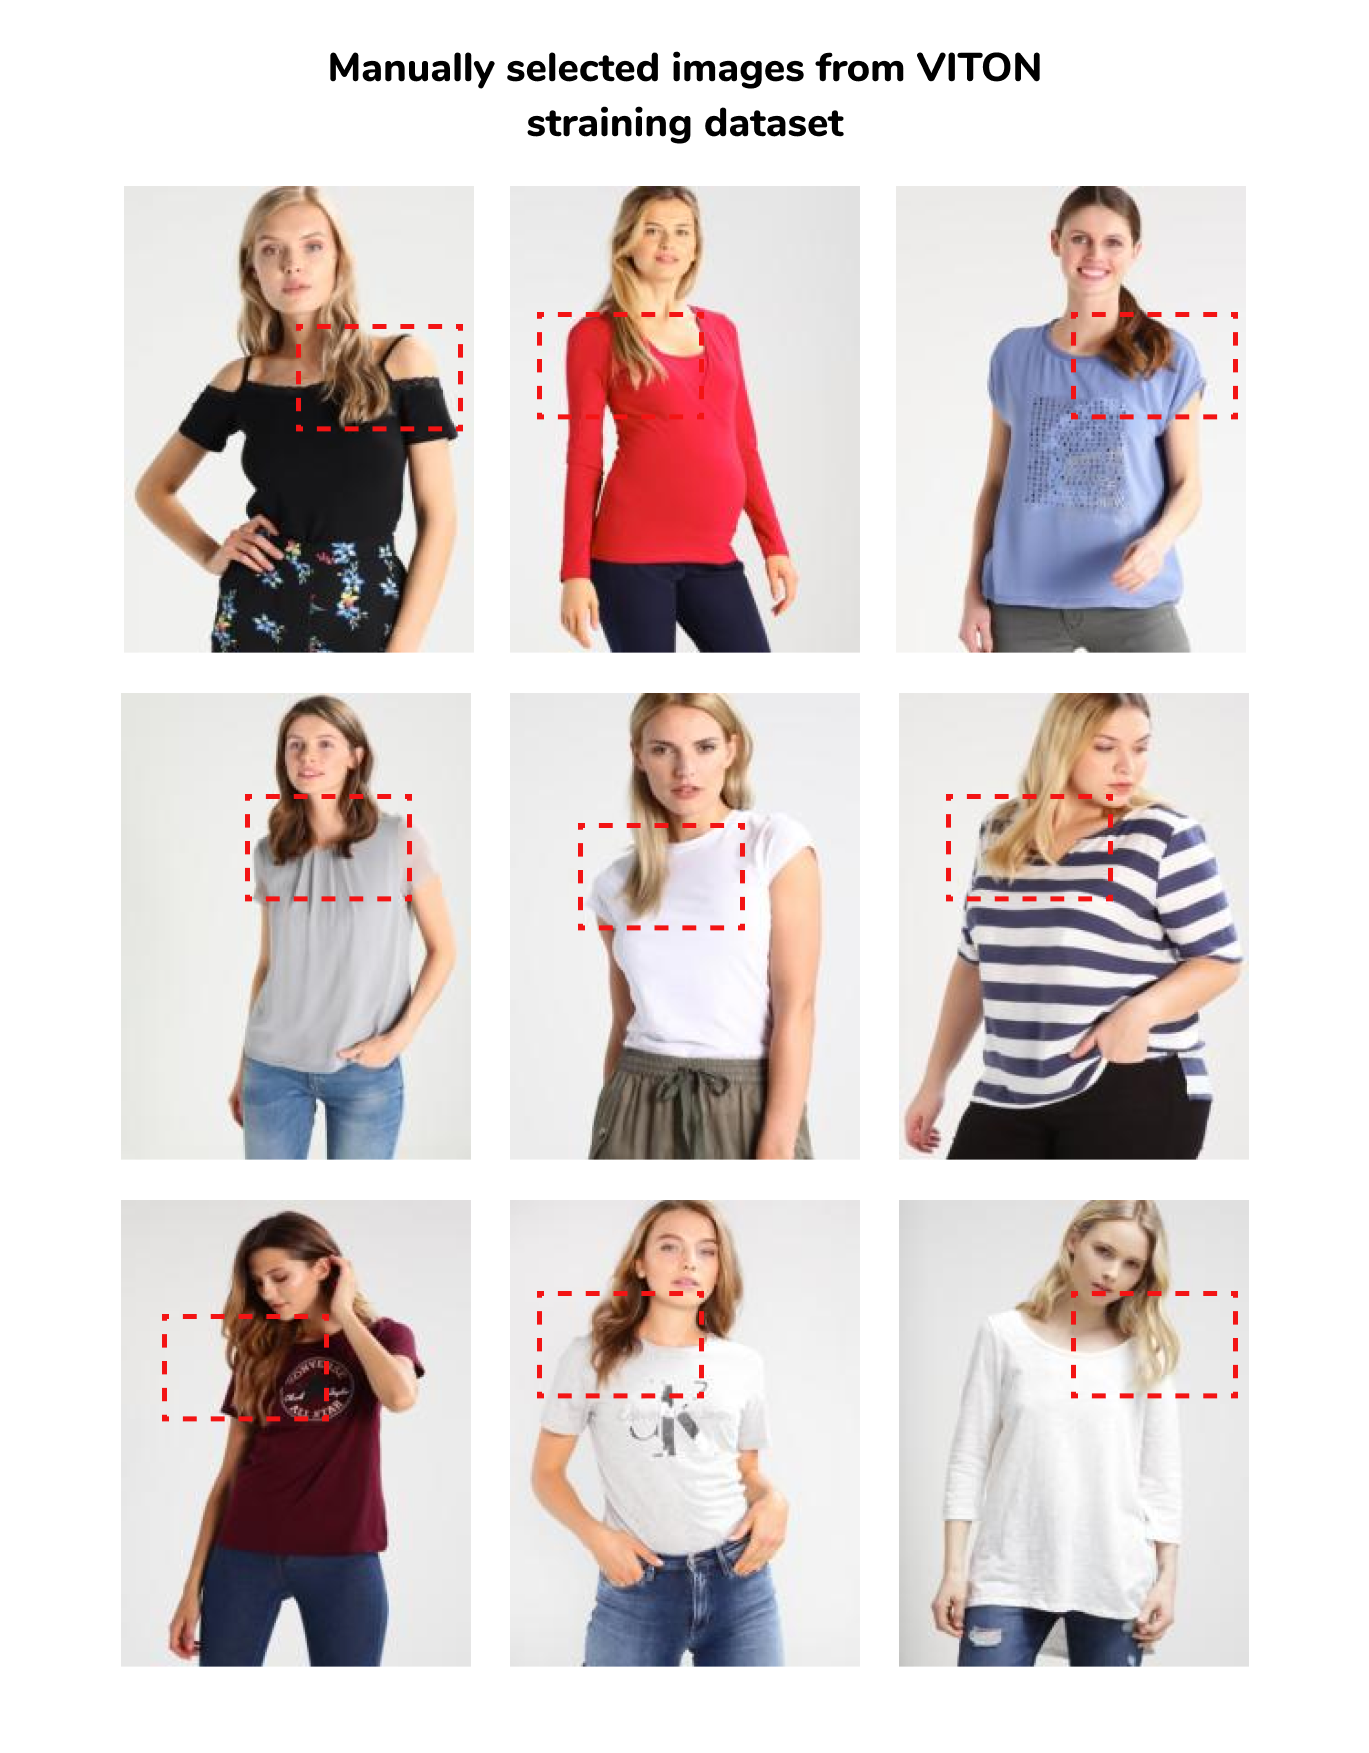
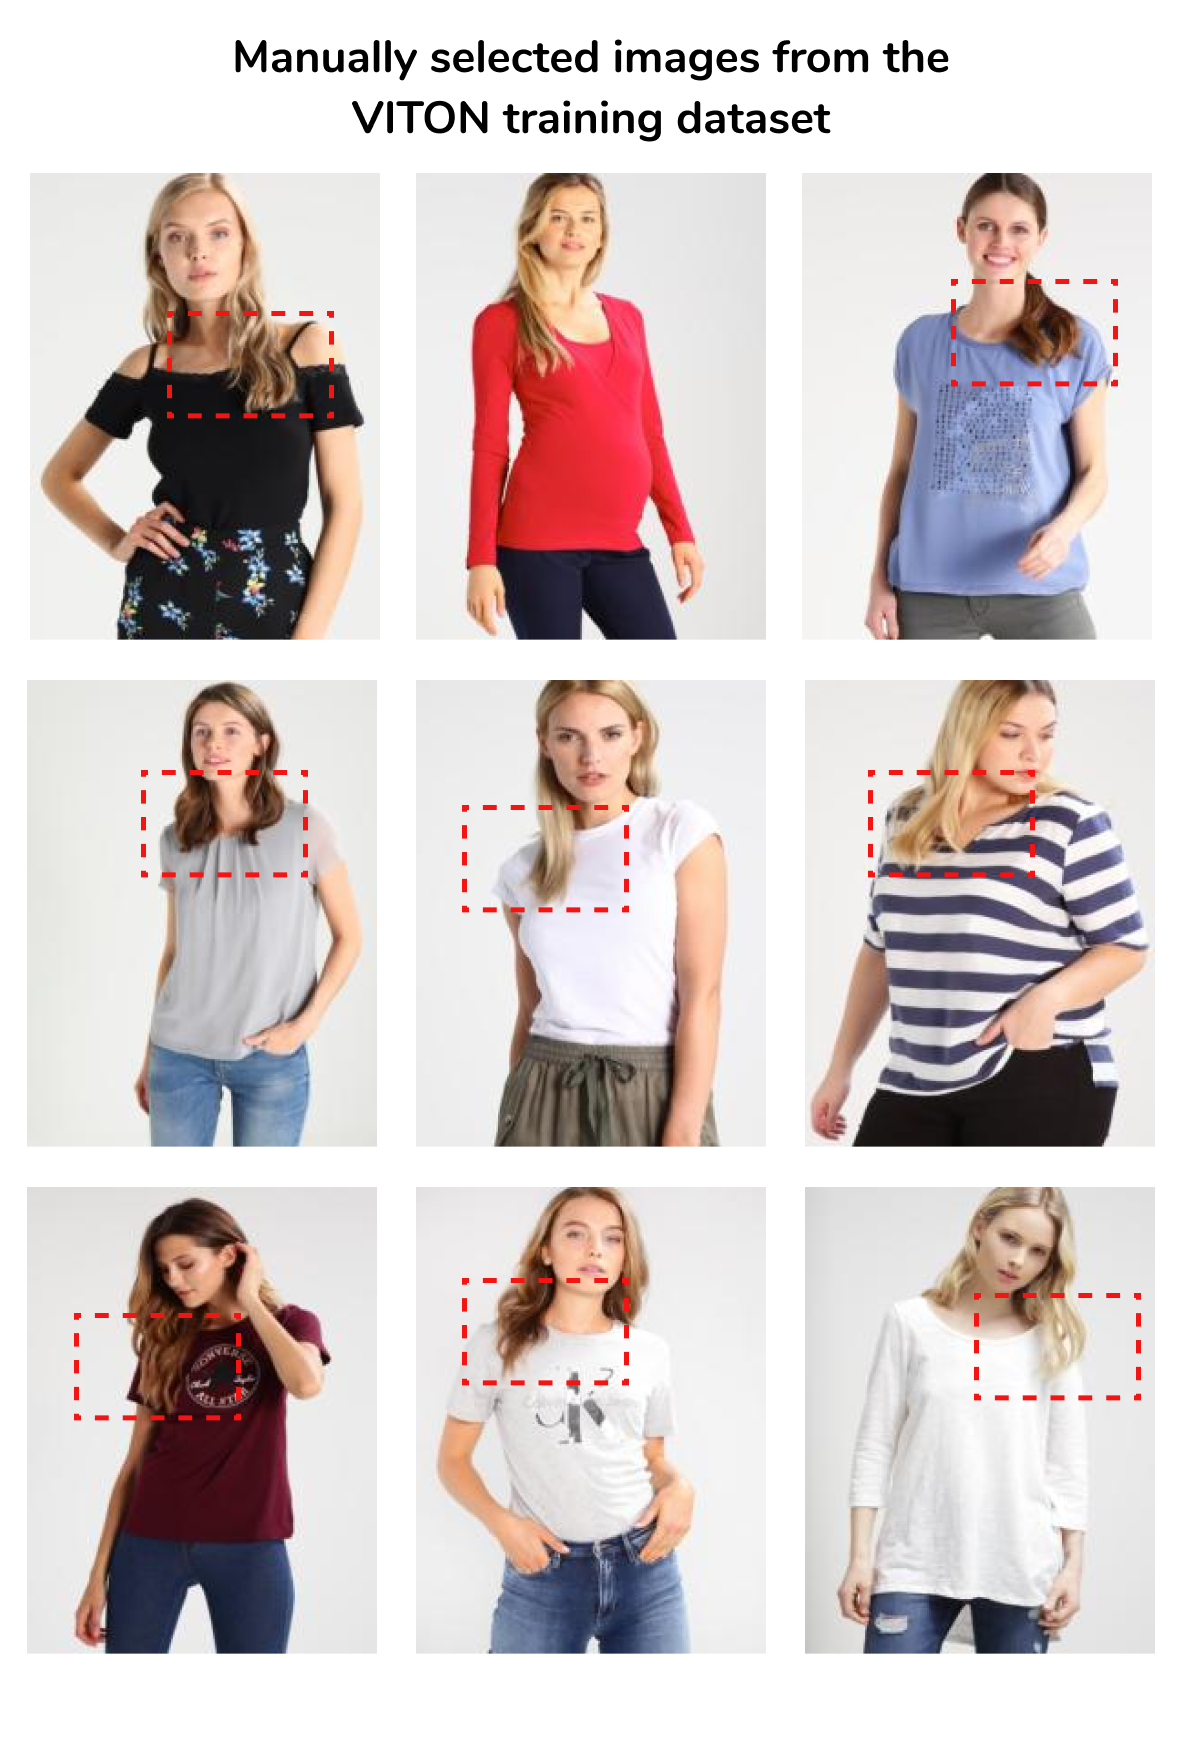
Data Collection

diff --git a/README.md b/README.md
@@ -4,6 +4,8 @@ This repository pertains to the **Data Science Thesis** of Adam Horvath-Reparszk
 
 **Author**: Adam Horvath-Reparszky
 
+**Title**: Virtual Try-on with Realistic Hair using Occlusion Aware Image Painting Network
+
 * **Student-ID**: 13326481
 
 * **Email**: adam.horvath-reparszky@student.uva.nl
@@ -37,10 +39,40 @@ This repository pertains to the **Data Science Thesis** of Adam Horvath-Reparszk
 
 ## Collected Custom Hair Occlusion Dataset
 
+In order to, train the image inpainting network, firstly approximately 5,600 training images were manually selected from the VITON train dataset.
 
+<p align="middle">
+  <img src="images\Manually_selected.png" width="256"/>
+  <img src="images\Manually_selected_2.png" width="256"/>
+</p>
+
+Considering the fact that around 5,600 images have been manually labelled by myself, idea of training a Resnet classifier arose to collect more training data, via applying the classifier on larger dataset than VITON
+
+* Transfer Learning on Resnet50
+
+In order to increase the number of training images for inpainting, DeepFashion dataset has been chosen to select those potential images where occlusion by hair appears. Checking this amount of images manually would take a lot of time and effort, therefore, transfer learning, more specifically fine-tuning has been applied on the pre-trained Resnet50 convolutional neural network using the already selected images as training data to train a classifier that selects the potential images which include hair occlusion.
+
+<p align="middle">
+  <img src="images\Manually_selected.png" width="256"/>
+</p>
+
+Approximately 16,759 valid images have been selected, which results in almost three times bigger data collection than the first manually selected dataset.
+
+<p align="middle">
+  <img src="images\Resnet50_manually.png" width="256"/>
+</p>
+
+
+## Novel Data Preprocessing Method
+
+## Image Inpainting
+
+## Experiments
+
+## Conclusion
 
 ## Experiments examples by paper
-* Parser-Free Virtual Try-on via Distilling Appearance Flows
+
 <p align="middle">
   <img src="images\parser_free_1.jpg" width="256"/>
   <img src="images\parser_free_2.jpg" width="256"/>
